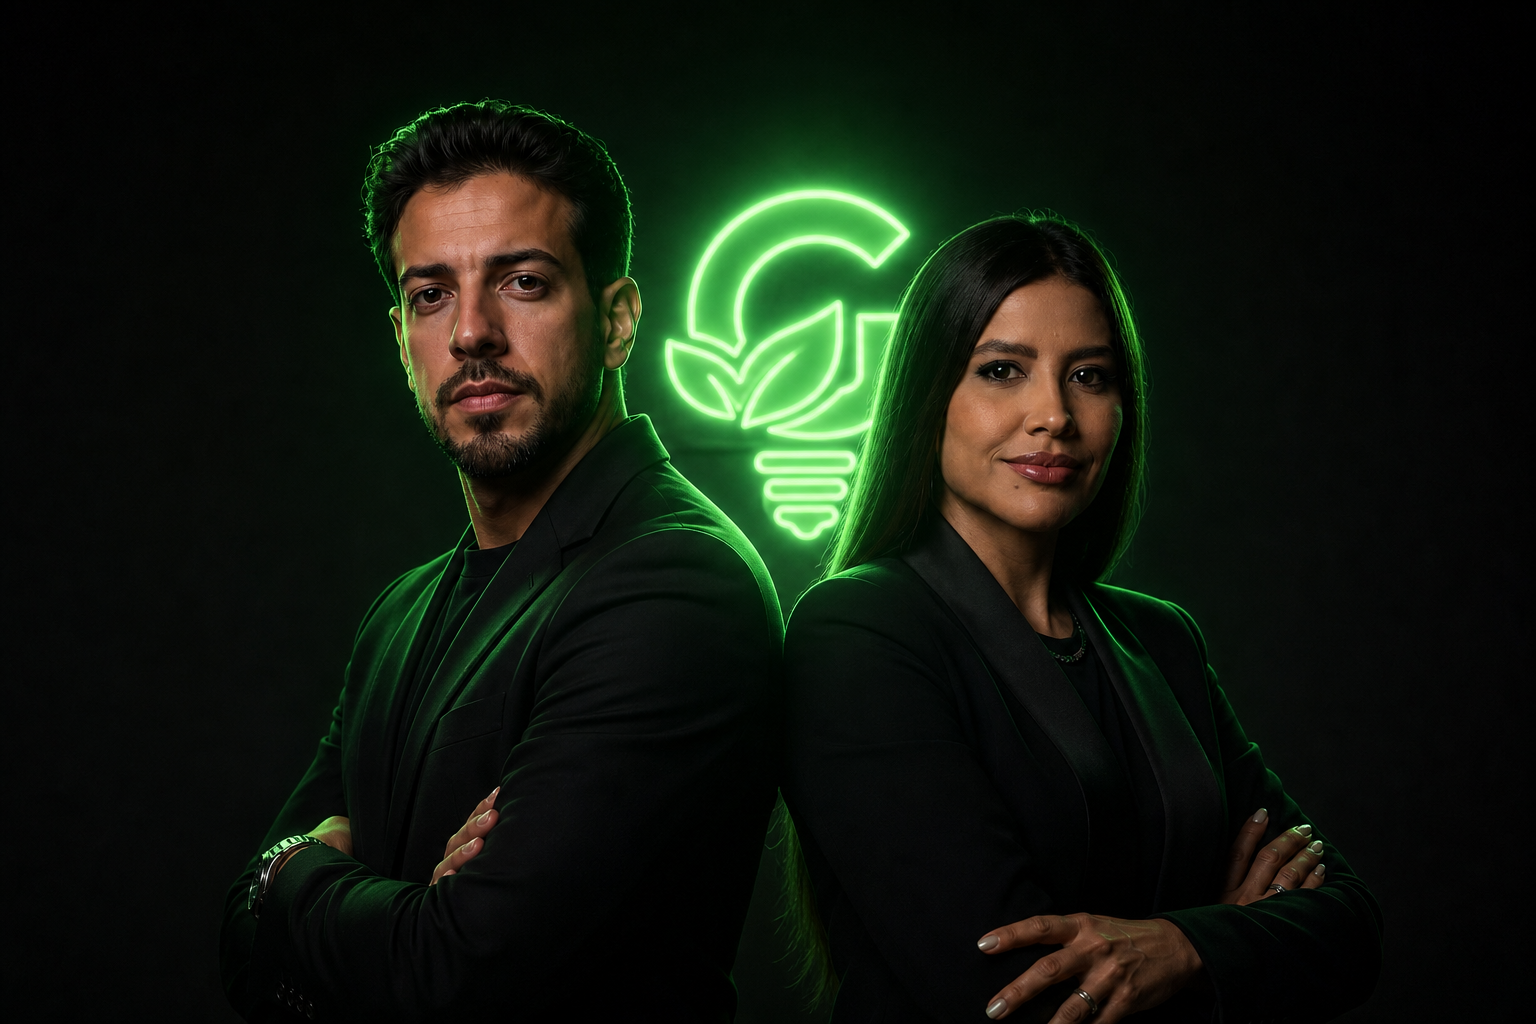
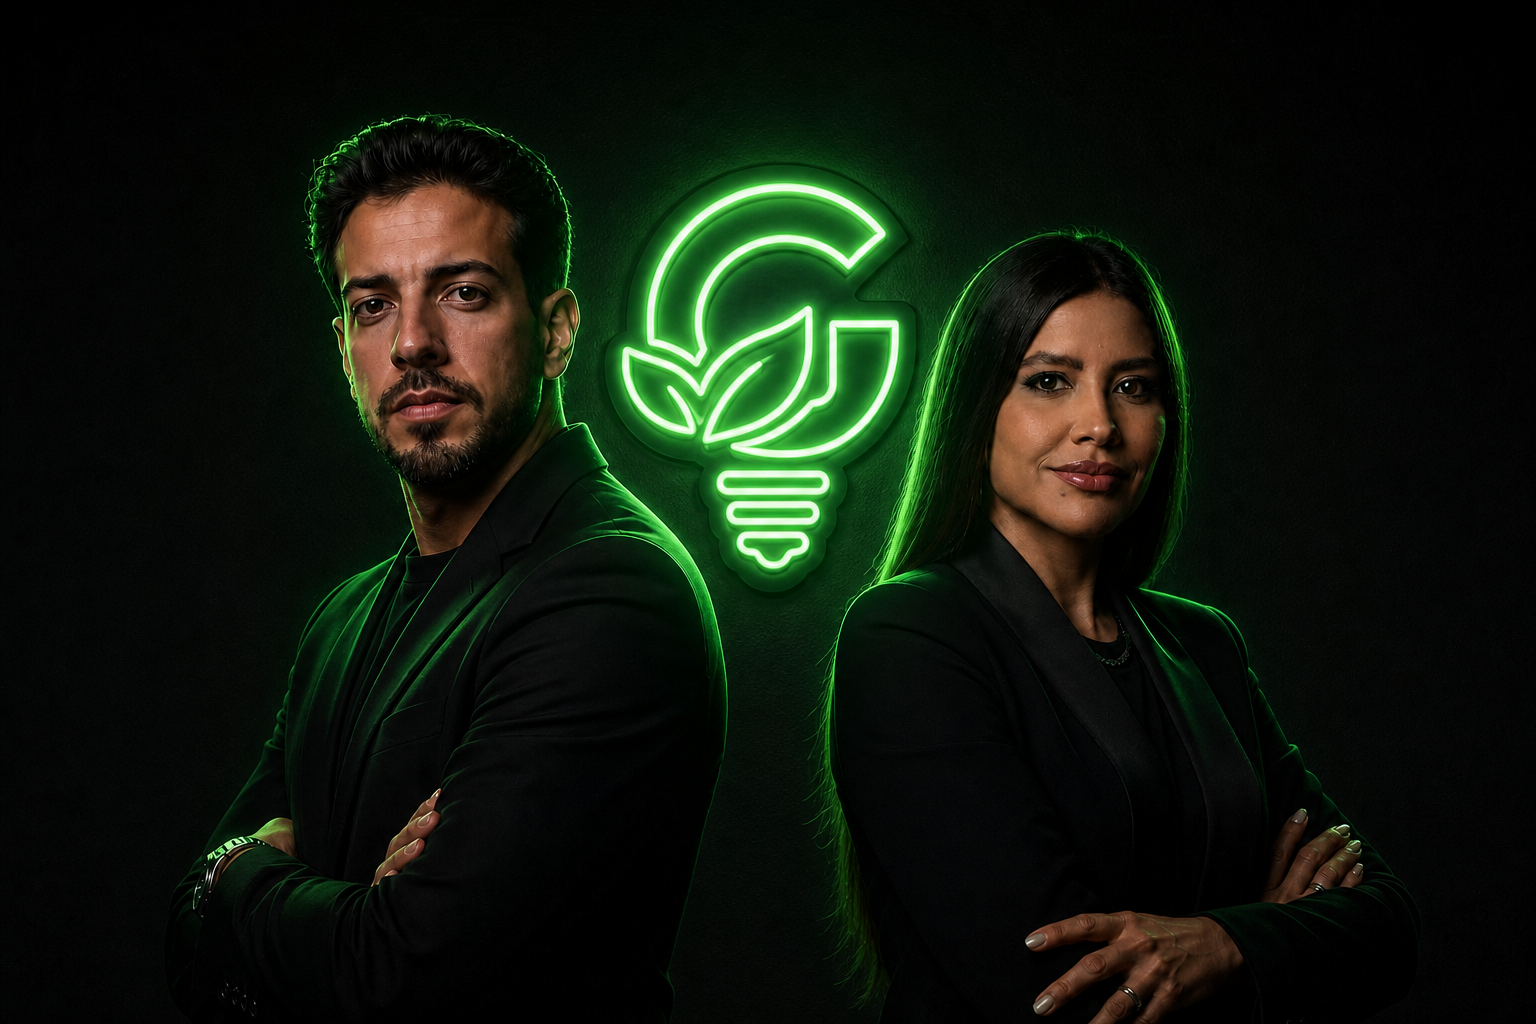
Trajetoria: 2021 usa timeline-origem.png; toda a timeline agora colorida (filtro P&B removido)

diff --git a/index.html b/index.html
@@ -386,8 +386,8 @@
     mix-blend-mode:overlay;opacity:.5}
   .jphoto img{display:block;width:100%;height:100%;object-fit:cover;
     filter:grayscale(1) sepia(.38) hue-rotate(66deg) saturate(.85) contrast(1.06) brightness(.9)}
-  /* fotos coloridas/on-brand (2023 comercial, 2024 telecom, 2025 forbes): sem o filtro P&B esverdeado */
-  .jphoto.jp2 img,.jphoto.jp3 img,.jphoto.jp4 img{ filter:none }
+  /* trajetoria toda com fotos coloridas/on-brand (2021 origem, 2023, 2024, 2025): sem filtro P&B */
+  .jphoto img{ filter:none }
   .jp1{width:180px;height:180px;right:-370px;top:-46px}
   .jp2{width:240px;height:156px;left:-400px;top:64px}
   .jp3{width:164px;height:214px;right:-395px;top:18px}
@@ -1917,7 +1917,7 @@
     <div class="jwrap">
       <svg class="jsvg" aria-hidden="true"><path class="jtrackp"/><path class="jfillp" pathLength="1"/></svg><div class="jspark"></div>
       <ol class="jitems">
-        <li class="jitem jl"><span class="jdot"></span><span class="jphoto jp1" data-rot="-7" data-dx="90" data-dy="-150" data-off="-140"><img src="assets/img/foto-2021.jpg" alt=""></span><div class="jcard">
+        <li class="jitem jl"><span class="jdot"></span><span class="jphoto jp1" data-rot="-7" data-dx="90" data-dy="-150" data-off="-140"><img src="assets/img/timeline-origem.png" alt=""></span><div class="jcard">
           <span class="jyear">2021</span><span class="jname">Origem</span>
           <span class="jdesc">Fundada por Thiago Alexander e Amanda Durante, em Minas Gerais. Nascia a iGreen — uma visão, um propósito: “Enriquecer vidas e impactar o mundo com soluções sustentáveis e inovadoras.”</span>
         </div></li>
